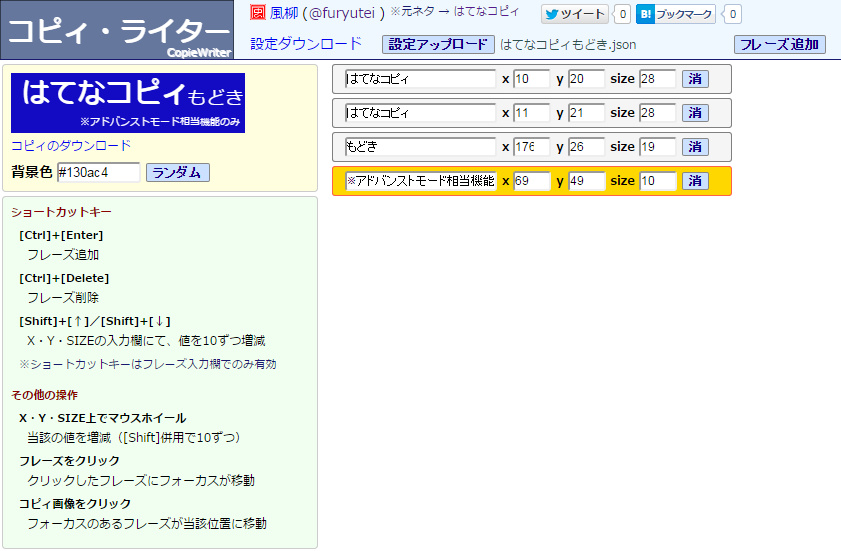
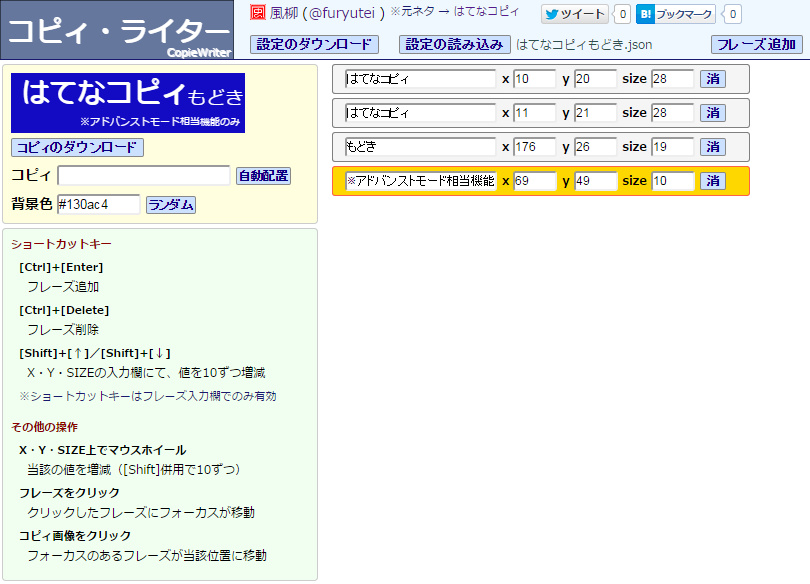
ダウンロード関連処理の改善

Changed region(s): [[0.0, 0.0, 1.0, 1.0]]

diff --git a/js/CopieWriter.js b/js/CopieWriter.js
@@ -3,7 +3,9 @@
 //{ ■パラメータ
 var DEFAULT_CANVAS_SELECTOR = 'canvas#copie';
 var DEFAULT_DOWNLOAD_COPIE_SELECTOR = 'a#download-copie';
+var DEFAULT_DOWNLOAD_COPIE_BUTTON_SELECTOR = 'input#download-copie-button';
 var DEFAULT_DOWNLOAD_COPIE_SETTING_SELECTOR = 'a#download-copie-setting';
+var DEFAULT_DOWNLOAD_COPIE_SETTING_BUTTON_SELECTOR = 'input#download-copie-setting-button';
 var DEFAULT_UPLOAD_COPIE_SETTING_SELECTOR = 'input#upload-copie-setting';
 var DEFAULT_UPLOAD_COPIE_SETTING_BUTTON_SELECTOR = 'input#upload-copie-setting-button';
 var DEFAULT_UPLOAD_COPIE_SETTING_FILE_SELECTOR = '#upload-copie-setting-file';
@@ -417,7 +419,9 @@ var CopieWriter = makeClass(null, {
         
         var canvas_selector = parameters.canvas_selector;
         var download_copie_selector = parameters.download_copie_selector;
+        var download_copie_button_selector = parameters.download_copie_button_selector;
         var download_copie_setting_selector = parameters.download_copie_setting_selector;
+        var download_copie_setting_button_selector = parameters.download_copie_setting_button_selector;
         var upload_copie_setting_selector = parameters.upload_copie_setting_selector;
         var upload_copie_setting_button_selector = parameters.upload_copie_setting_button_selector;
         var upload_copie_setting_file_selector = parameters.upload_copie_setting_file_selector;
@@ -433,7 +437,9 @@ var CopieWriter = makeClass(null, {
         
         if (!canvas_selector) {canvas_selector = DEFAULT_CANVAS_SELECTOR;}
         if (!download_copie_selector) {download_copie_selector = DEFAULT_DOWNLOAD_COPIE_SELECTOR;}
+        if (!download_copie_button_selector) {download_copie_button_selector = DEFAULT_DOWNLOAD_COPIE_BUTTON_SELECTOR;}
         if (!download_copie_setting_selector) {download_copie_setting_selector = DEFAULT_DOWNLOAD_COPIE_SETTING_SELECTOR;}
+        if (!download_copie_setting_button_selector) {download_copie_setting_button_selector = DEFAULT_DOWNLOAD_COPIE_SETTING_BUTTON_SELECTOR;}
         if (!upload_copie_setting_selector) {upload_copie_setting_selector = DEFAULT_UPLOAD_COPIE_SETTING_SELECTOR;}
         if (!upload_copie_setting_button_selector) {upload_copie_setting_button_selector = DEFAULT_UPLOAD_COPIE_SETTING_BUTTON_SELECTOR;}
         if (!upload_copie_setting_file_selector) {upload_copie_setting_file_selector = DEFAULT_UPLOAD_COPIE_SETTING_FILE_SELECTOR;}
@@ -448,7 +454,9 @@ var CopieWriter = makeClass(null, {
         
         var jq_copie = $(canvas_selector);
         var jq_download_copie = $(download_copie_selector);
+        var jq_download_copie_button = $(download_copie_button_selector);
         var jq_download_copie_setting = $(download_copie_setting_selector);
+        var jq_download_copie_setting_button = $(download_copie_setting_button_selector);
         var jq_upload_copie_setting = $(upload_copie_setting_selector);
         var jq_upload_copie_setting_button = $(upload_copie_setting_button_selector);
         var jq_upload_copie_setting_file = $(upload_copie_setting_file_selector);
@@ -461,7 +469,9 @@ var CopieWriter = makeClass(null, {
         
         self.jq_copie = jq_copie;
         self.jq_download_copie = jq_download_copie;
+        self.jq_download_copie_button = jq_download_copie_button;
         self.jq_download_copie_setting = jq_download_copie_setting;
+        self.jq_download_copie_setting_button = jq_download_copie_setting_button;
         self.jq_upload_copie_setting = jq_upload_copie_setting;
         self.jq_upload_copie_setting_button = jq_upload_copie_setting_button;
         self.jq_upload_copie_setting_file = jq_upload_copie_setting_file;
@@ -495,9 +505,12 @@ var CopieWriter = makeClass(null, {
         self.set_phrase_add_event();
         self.set_copie_click_event();
         
-        if (self.url_copie_setting) {
-            $.get(self.url_copie_setting, function(setting) {
+        if (url_copie_setting) {
+            $.get(url_copie_setting, function(setting) {
                 self.update_copie_setting(setting);
+                self.update_setting_filename(url_copie_setting.replace(/^.*?([^/]+)$/, '$1'));
+                self.update_copie_data_url();
+                self.update_setting_data_url();
             }, 'json');
         }
         else {
@@ -508,6 +521,8 @@ var CopieWriter = makeClass(null, {
             ,   refresh_copy : true
             ,   current : true
             });
+            self.update_copie_data_url();
+            self.update_setting_data_url();
         }
     }   //  end of __init__()
     
@@ -515,7 +530,7 @@ var CopieWriter = makeClass(null, {
         var self = this;
         
         $(w).on('beforeunload', function(event) {
-            if (self.jq_download_copie.attr('href') != self.jq_copie.get(0).toDataURL()) {
+            if (self.jq_download_copie.attr('href') != self.jq_copie.get(0).toDataURL('image/png')) {
                 return '編集中のコピィを破棄して、ページを移動しますか？';
             };
         });
@@ -620,14 +635,16 @@ var CopieWriter = makeClass(null, {
 ,   set_download_event : function() {
         var self = this;
         
-        self.jq_download_copie.on('click', function(event) {
+        self.jq_download_copie_button.on('click', function(event) {
             self.update_copie_data_url();
             if (w.navigator.msSaveOrOpenBlob) { // IE10+
                 w.navigator.msSaveOrOpenBlob(self.jq_copie.get(0).msToBlob(), self.jq_download_copie.attr('download'));
                 return false;
             }
+            else {
+                self.mouse_click(self.jq_download_copie);
+            }
         });
-        self.update_copie_data_url();
         
     }   //  end of set_download_event()
 
@@ -656,14 +673,16 @@ var CopieWriter = makeClass(null, {
 ,   set_download_setting_event : function() {
         var self = this;
         
-        self.jq_download_copie_setting.on('click', function(event) {
+        self.jq_download_copie_setting_button.on('click', function(event) {
             var blob = self.update_setting_data_url();
             if (w.navigator.msSaveOrOpenBlob) { // IE10+
                 w.navigator.msSaveOrOpenBlob(blob, self.jq_download_copie_setting.attr('download'));
                 return false;
             }
+            else {
+                self.mouse_click(self.jq_download_copie_setting);
+            }
         });
-        self.update_setting_data_url();
         
     }   //  end of set_download_event()
 
@@ -754,6 +773,16 @@ var CopieWriter = makeClass(null, {
         
     }   //  end of set_phrase_add_event()
 
+,   mouse_click : function(jq_object) {
+        // ※ jQuery の click() や trigger('click') だとうまく行かないことがある(data URI が設定された A 要素等)
+        //jq_object.click();
+        //jq_object.trigger('click', [true]);
+        
+        // マウスイベントや DOM 要素の click() ならうまく行く
+        //var mouse_event = document.createEvent('MouseEvent'); mouse_event.initEvent("click", true, true); jq_object.get(0).dispatchEvent(mouse_event);
+        jq_object.get(0).click();
+    }   //  end of mouse_click()
+
 ,   add_phrase : function() {
         var self = this;
         
@@ -804,7 +833,7 @@ var CopieWriter = makeClass(null, {
 ,   update_copie_data_url : function() {
         var self = this;
         
-        self.jq_download_copie.attr('href', self.jq_copie.get(0).toDataURL());
+        self.jq_download_copie.attr('href', self.jq_copie.get(0).toDataURL('image/png'));
     }   //  end of update_copie_data_url()
 
 ,   update_setting_data_url : function() {
@@ -818,6 +847,12 @@ var CopieWriter = makeClass(null, {
         return blob;
     }   //  end of update_setting_data_url()
 
+,   update_setting_filename : function(filename) {
+        var self = this;
+        
+        self.jq_upload_copie_setting_file.text(filename);
+    }   //  end of update_setting_filename()
+
 ,   read_copie_setting_file : function(event) {
         var self = this;
         
@@ -830,7 +865,7 @@ var CopieWriter = makeClass(null, {
             try {
                 var setting = JSON.parse(setting_json);
                 self.set_setting(setting);
-                self.jq_upload_copie_setting_file.text(file.name);
+                self.update_setting_filename(file.name);
                 self.update_copie_data_url();
                 self.update_setting_data_url();
             }

diff --git a/index.html b/index.html
@@ -44,7 +44,8 @@
                 <!-- /#navi --></div>
                 <div id="toolbar" class="clearfix">
                     <div id="download-copie-setting-container">
-                        <a id="download-copie-setting" href="#" download="copie-setting.json">設定をダウンロード</a>
+                        <a id="download-copie-setting" class="hidden" href="#" download="copie-setting.json">設定のダウンロード</a>
+                        <input type="button" id="download-copie-setting-button" class="button" value="設定のダウンロード" />
                     </div>
                     
                     <div id="upload-copie-setting-container">
@@ -77,7 +78,8 @@
             <div id="copie-container" class="container">
                 <canvas id="copie" width="234" height="60"></canvas>
                 <div class="download-copie">
-                    <a id="download-copie" href="#" download="copie.png">コピィのダウンロード</a>
+                    <a id="download-copie" class="hidden" href="#" download="copie.png">コピィのダウンロード</a>
+                    <input type="button" id="download-copie-button" class="button" value="コピィのダウンロード" />
                 </div>
                 <form id="initial-copie-container" class="parts-container">
                     <label for="initial-copie">コピィ</label><input type="text" id="initial-copie" name="initial-copie" value="" />

diff --git a/css/CopieWriter.css b/css/CopieWriter.css
@@ -24,6 +24,7 @@
 }
 
 body {
+    min-width: 1000px;
     font-weight: normal;
     line-height: 1.4;
     font-family: "ヒラギノ角ゴ Pro W3", "Hiragino Kaku Gothic Pro", "メイリオ", Meiryo, "ＭＳ Ｐゴシック", "MS PGothic", sans-serif;
@@ -149,7 +150,8 @@ div#header header div#menu div#toolbar div#download-copie-setting-container a {
 div#header header div#menu div#toolbar div#upload-copie-setting-container {
     float: left;
     margin: 0 16px 0 0;
-    width: 340px;
+    width: 300px;
+    overflow: hidden;
 }
 
 div#header header div#menu div#toolbar div#upload-copie-setting-container span#upload-copie-setting-file {

diff --git a/README.md b/README.md
@@ -20,6 +20,11 @@ CopieWriter: コピィ・ライター
 [実際にコピィ・ライターが動作しているサイトはこちら。](http://furyu.nazo.cc/CopieWriter/)  
 
 
+■ 画面サンプル
+---
+![コピィ・ライター画面サンプル](https://raw.githubusercontent.com/furyutei/CopieWriter/master/images/%E3%82%B3%E3%83%94%E3%82%A3%E3%83%BB%E3%83%A9%E3%82%A4%E3%82%BF%E3%83%BC%E7%94%BB%E9%9D%A2%E3%82%B5%E3%83%B3%E3%83%97%E3%83%AB.jpg)
+
+
 ■ 関連記事
 ---
 - [コピィ・ライター(CopieWriter) - はてなコピィもどきのバナーを作成可能なサービスを作ってみた - 風柳メモ](http://d.hatena.ne.jp/furyu-tei/20150712/1436691902)  
